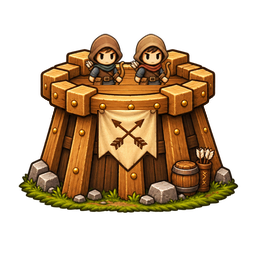
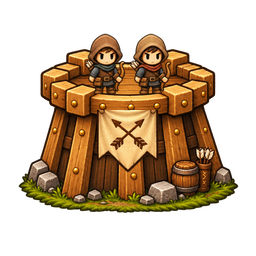
fix: follow village parapet contour instead of rectangular occlusion

diff --git a/flowforge/sets/village/towers/archer/base_i_two_unit/README.md b/flowforge/sets/village/towers/archer/base_i_two_unit/README.md
@@ -23,15 +23,15 @@
 - 실제 렌더러의 궁수 앵커는 A `(105,109)`, B `(151,109)`다. 원본 `meta.json`의 오래된 `(90,114)` / `(165,114)` 값을 사용하지 않는다.
 - 시트의 신발 바닥은 원본 시트와 같은 셀 내 y=80에 정렬했다. 셀 아래 투명 여백을 자르지 않는다.
 - 게임의 정사각형 건물 표시 폭은 `185 × 0.70`, 궁수 표시 크기는 `61 × 0.70`이다. X/Y 동일 배율을 유지한다.
-- 현재 코드가 후면 이미지의 `(44,85,169,25)` 영역을 난간으로 한 번 더 그리는 동작과 호환된다. 새 전면 난간은 후면의 동일 픽셀을 사용한다.
+- 새 전면 난간은 후면의 동일 픽셀에서 실제 난간의 윤곽을 따라 추출했다. 전면 교체 시 게임은 원본 전용 사각형 난간 재추출을 생략한다. 플랫폼 바닥까지 사각형으로 덮어 궁수를 자르지 않는다.
 - 기존 한 타워의 쿨타임·피해량과 성공 발사마다 A/B 교대 규칙을 유지한다. 이미지가 별도 발사체나 전투 상태를 구현하지는 않는다.
 
 원본을 교체하는 경우 게임의 `game/art/sets/original/towers/archer/base_i_two_unit/` 아래 같은 이름의 PNG 4개와 메타데이터를 사용한다. 게임의 Art Studio 후보는 `flowforge/sets/village/towers/archer/base_i_two_unit/`에 납품했다.
 
-**현재 Art Studio 제약:** `game/dev_asset_proxy.gd`의 `ART_SET_ASSETS`에는 `tower_back.png`만 등록되어 있다. Village 세트 선택은 후면만 원격 교체한다. 전면·궁수 A/B까지 원격으로 교체하려면 해당 3개 원본 경로와 `towers/archer/base_i_two_unit/` 아래 같은 상대 파일명을 매핑해야 한다. 이번 납품은 게임 코드나 배포를 변경하지 않는다.
+**Art Studio 연결:** 게임의 `ART_SET_ASSETS`에 기본 아처 I 후면·전면·궁수 A/B 4개 경로가 모두 등록되어 있다. 변경된 게임 빌드에서 Village 선택 후 Reload하면 네 파일이 함께 적용된다. `village: 4/4 textures`로 로딩 여부를 확인한다. Forest/Stone처럼 일부 파일만 있는 후보는 나머지에 내장 원본을 유지한다.
 
 ## 검수
 
-네 PNG의 정상 디코딩·RGBA·정확한 크기·투명도를 확인했다. Godot 4.6.3 headless에서 네 이미지를 로딩하고 ImageTexture 및 16개 AtlasTexture/SpriteFrames 프레임 생성, 빈 프레임·셀 가장자리 잘림 여부를 검사했다. 실제 게임의 좌표·배율·가림 순서를 재현한 합성 미리보기를 검수했다. 실제 게임 실행·공격 판정·브라우저 적용 검증은 수행하지 않았다.
+네 PNG의 정상 디코딩·RGBA·정확한 크기·투명도를 확인했다. Godot 4.6.3 headless에서 네 이미지를 로딩하고 ImageTexture 및 16개 AtlasTexture/SpriteFrames 프레임 생성, 빈 프레임·셀 가장자리 잘림 여부를 검사했다. 실제 게임의 좌표·배율·가림 순서를 재현한 합성 미리보기를 검수했다. 게임의 실제 아처 씬에서 네 텍스처 연결·Original 복귀·누락 파일 폴백 검사를 통과했고, `archer-01` 선택 스모크도 통과했다. 브라우저에서의 수동 플레이 검증은 별도다.
 
 `assembled.png`는 투명 합성 예시, `preview.png`는 네 방향의 대기/공격 비교, `preview.webp`는 방향 전환·A/B 교대 포즈 미리보기다. 미리보기는 납품 PNG를 조립한 예시이며 실제 플레이 녹화가 아니다.

diff --git a/flowforge/README.md b/flowforge/README.md
@@ -8,8 +8,8 @@
 | --- | --- | --- |
 | 전체 세트 A/B | 지원 | 세트별 일관된 색감·실루엣·재질을 유지 |
 | 세부 후보 상속 | 지원 | 바뀌는 파일만 별도 오버라이드 |
-| 기본 아처 후면 `tower_back.png` | 매핑됨 | 원본과 동일한 크기·여백·기준점 |
-| 다른 타워 레이어·몬스터·배경 | **현재 Art Studio 매핑 미등록** | 제작 전 코드 매핑과 파일 규격 확정 필요 |
+| 기본 아처 I 후면/전면·궁수 A/B | PNG 4종 매핑됨 | 원본과 동일한 캔버스·프레임·여백·기준점 |
+| 다른 타워 레이어·몬스터·배경 | **기본 아처 I 외에는 현재 Art Studio 매핑 미등록** | 제작 전 코드 매핑과 파일 규격 확정 필요 |
 | Sprite2D/TextureRect | 원본 `res://` 경로가 있으면 자동 교체 | 원본 경로 보존 |
 | `_draw()` | `resolve_texture()` 호출 위치만 교체 | 담당 개발자가 호출 연결 |
 | AnimatedSprite2D/셰이더 | 자동 교체 **미지원** | 이미지 납품만으로 적용된다고 간주하지 않음 |
@@ -66,7 +66,7 @@ flowforge/
 ### 레이어 설계와 파일별 역할
 일반적인 타워 제작 시 검토할 레이어는 다음과 같다. **아래 이름은 역할 설명이며 모두 실제 파일로 존재한다는 뜻이 아니다.**
 
-1. **건물 후면:** 기단, 지붕 뒤, 뒷벽, 구조물. 현재 아처에 매핑된 실제 파일명은 `tower_back.png`.
+1. **건물 후면:** 기단, 지붕 뒤, 뒷벽, 구조물. 현재 기본 아처 I의 매핑 파일은 `tower_back.png`, `tower_front.png`, `archer_a.png`, `archer_b.png`다.
 2. **캐릭터:** 궁수·마법사·조작 인원. 대기/공격/방향별 이미지와 스프라이트 시트는 **타워별 코드 확인 후 파일명·프레임 수를 결정**.
 3. **건물 전면:** 난간·울타리·전경 장식. 캐릭터가 자연스럽게 가려지도록 별도 레이어 고려.
 4. **효과·발사체:** 화살, 총탄, 마법, 연기 등. 캐릭터 프레임에 임의 합성하지 않고 렌더링 방식을 확인.
@@ -99,7 +99,7 @@ flowforge/
 ## 문제 해결
 - **이미지가 안 바뀜:** 코드의 `sets.json` 세트 등록 및 `ART_SET_ASSETS` 매핑 여부 → `overrides` 우선순위 → 경로 대소문자 → Raw URL 순서로 확인.
 - **PNG load failed / Decode failed:** HTTP/CORS 또는 이미지 자체의 IDAT/디코딩 문제. 정상 PNG로 다시 내보낸다.
-- **일부 레이어만 바뀜:** 현재 아처 후면만 등록된 것이 정상이다. 캐릭터·전면은 별도 매핑 필요.
+- **일부 레이어만 바뀜:** 기본 아처 I는 후면·전면·궁수 A/B 4종이 등록되어 있다. Village는 네 파일을 모두 제공하며 Forest/Stone은 후면만 제공해 나머지는 내장 원본을 유지한다. 변경된 게임 빌드에서 Reload하고 선택 세트의 `4/4 textures` 상태를 확인한다.
 - **애니메이션이 안 바뀜:** AnimatedSprite2D는 현재 자동 교체 미지원. 개발자가 교체 경로를 연결해야 한다.
 - **Original:** 게임에 포함된 원본으로 돌아간다. 외부 파일이 없어도 게임 실행은 유지된다.
 
